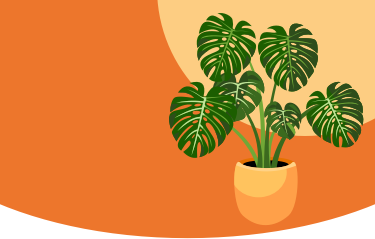
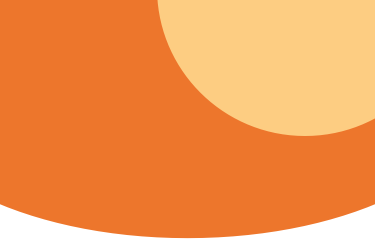
normalize survey page

Changed region(s): [[0.44, 0.0586, 0.968, 0.9372]]

diff --git a/components/OnboardingSurvey.js b/components/OnboardingSurvey.js
@@ -1,7 +1,10 @@
 import React from 'react';
 import {ScrollView, Image, StyleSheet, View, Text} from 'react-native';
+import {normalize} from '../utils/sizeScaling';
 import FFDateBox from './forms/FFDateBox';
 import elipse from '../assets/images/top-elipse-two-toned-orange.png';
+import plant from '../assets/images/monstera.png';
+
 class OnboardingSurvey extends React.Component {
   state = {
     date: null,
@@ -12,13 +15,12 @@ class OnboardingSurvey extends React.Component {
   render() {
     return (
       <ScrollView style={styles.rectangle}>
+        <Image style={styles.elipse} source={elipse} />
         <View style={styles.header}>
-          <View style={styles.elipse}>
-            <Image source={elipse} />
-          </View>
           <Text style={styles.headerText}>Let's Learn about you</Text>
+          <Image style={styles.plant} source={plant} />
         </View>
-        <View style={styles.content}>
+        <View style={styles.form}>
           <Text style={styles.instructionsText}>
             The information you provide will help us match you to your nutrient
             path.
@@ -31,36 +33,47 @@ class OnboardingSurvey extends React.Component {
 }
 
 const styles = StyleSheet.create({
-  header: {
-    width: '100%',
-  },
   elipse: {
     position: 'absolute',
+    width: '100%',
+    height: undefined,
+    // aspectRatio: width / height,
+    aspectRatio: 375 / 239,
+  },
+  header: {
+    alignSelf: 'center',
+    justifyContent: 'space-between',
+    marginTop: normalize(30, true),
+    width: normalize(304),
+    flexDirection: 'row',
   },
   headerText: {
     marginTop: '20%',
-    marginLeft: '5%',
     position: 'relative',
-    fontFamily: 'Cabin-Regular',
+    fontFamily: 'Cabin-SemiBold',
     color: '#ffffff',
-    lineHeight: 30,
-    fontSize: 30,
-    width: 137,
-    height: 81,
+    lineHeight: normalize(33),
+    fontSize: normalize(30),
+    width: normalize(140),
+  },
+  plant: {
+    width: normalize(175),
+    height: undefined,
+    aspectRatio: 195 / 213,
+    // borderColor: '#aaaaaa',
+    // borderWidth: 0.5,
+  },
+  // Align page structure.
+  form: {
+    alignSelf: 'center',
+    width: normalize(304),
+    marginTop: '10%',
+    minHeight: '100%',
   },
   instructionsText: {
     fontFamily: 'Cabin-Regular',
-    fontSize: 16,
+    fontSize: normalize(16),
     color: '#3d3d3d',
-  },
-  // Align page structure.
-  content: {
-    width: 340,
-    marginLeft: '5%',
-    marginTop: 100,
-    minHeight: '100%',
-    borderColor: '#aaaaaa',
-    borderWidth: 0.5,
   },
   rectangle: {
     width: '100%',

diff --git a/components/forms/FFDateBox.js b/components/forms/FFDateBox.js
@@ -1,5 +1,6 @@
 import React from 'react';
 import {TextInput, View, StyleSheet} from 'react-native';
+import {normalize} from '../../utils/sizeScaling';
 import propTypes from 'prop-types';
 
 class FFDateBox extends React.Component {
@@ -23,19 +24,19 @@ class FFDateBox extends React.Component {
 
 const styles = StyleSheet.create({
   formText: {
-    marginTop: 15,
-    marginBottom: 8,
-    fontSize: 16,
+    marginTop: normalize(15),
+    marginBottom: normalize(8),
+    fontSize: normalize(16),
     fontFamily: 'Cabin-Regular',
     color: '#555555',
-    width: 305,
+    width: normalize(305),
   },
   formBox: {
-    marginBottom: 15,
-    borderBottomWidth: 0.5,
+    marginBottom: normalize(15),
+    borderBottomWidth: normalize(0.5),
     // width: 310,
     color: '#555555',
-    width: 305,
+    width: normalize(305),
   },
 });
 
